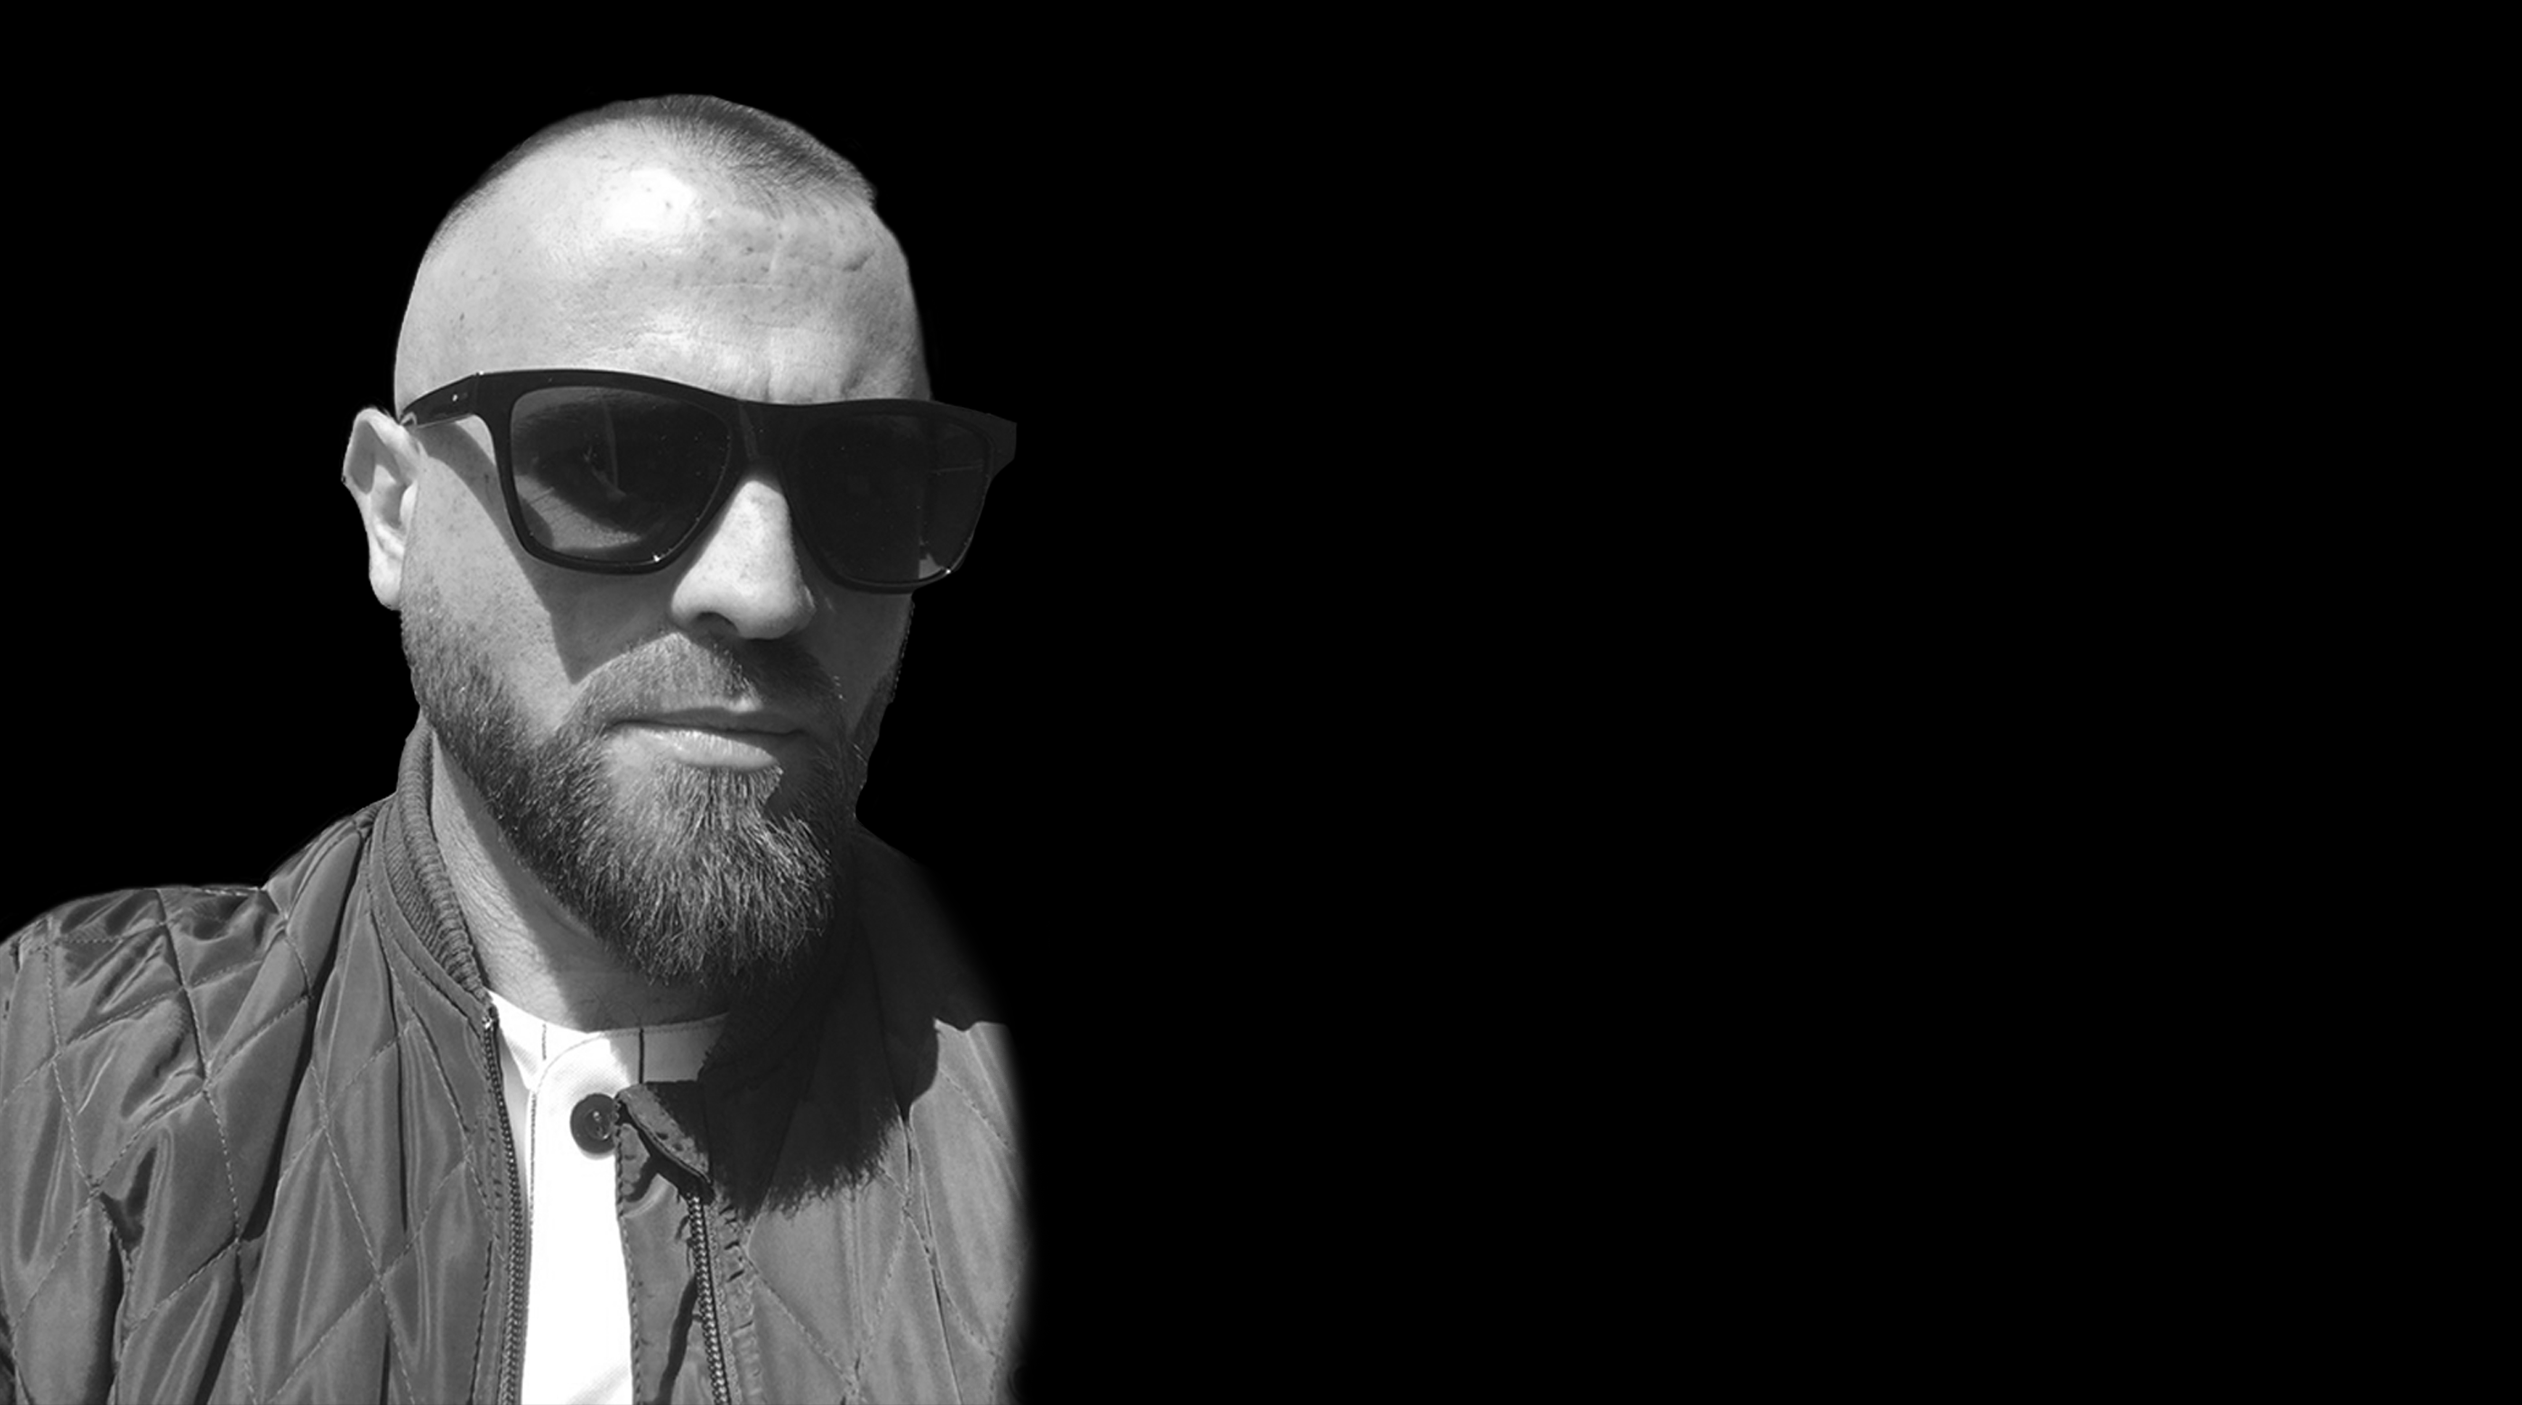
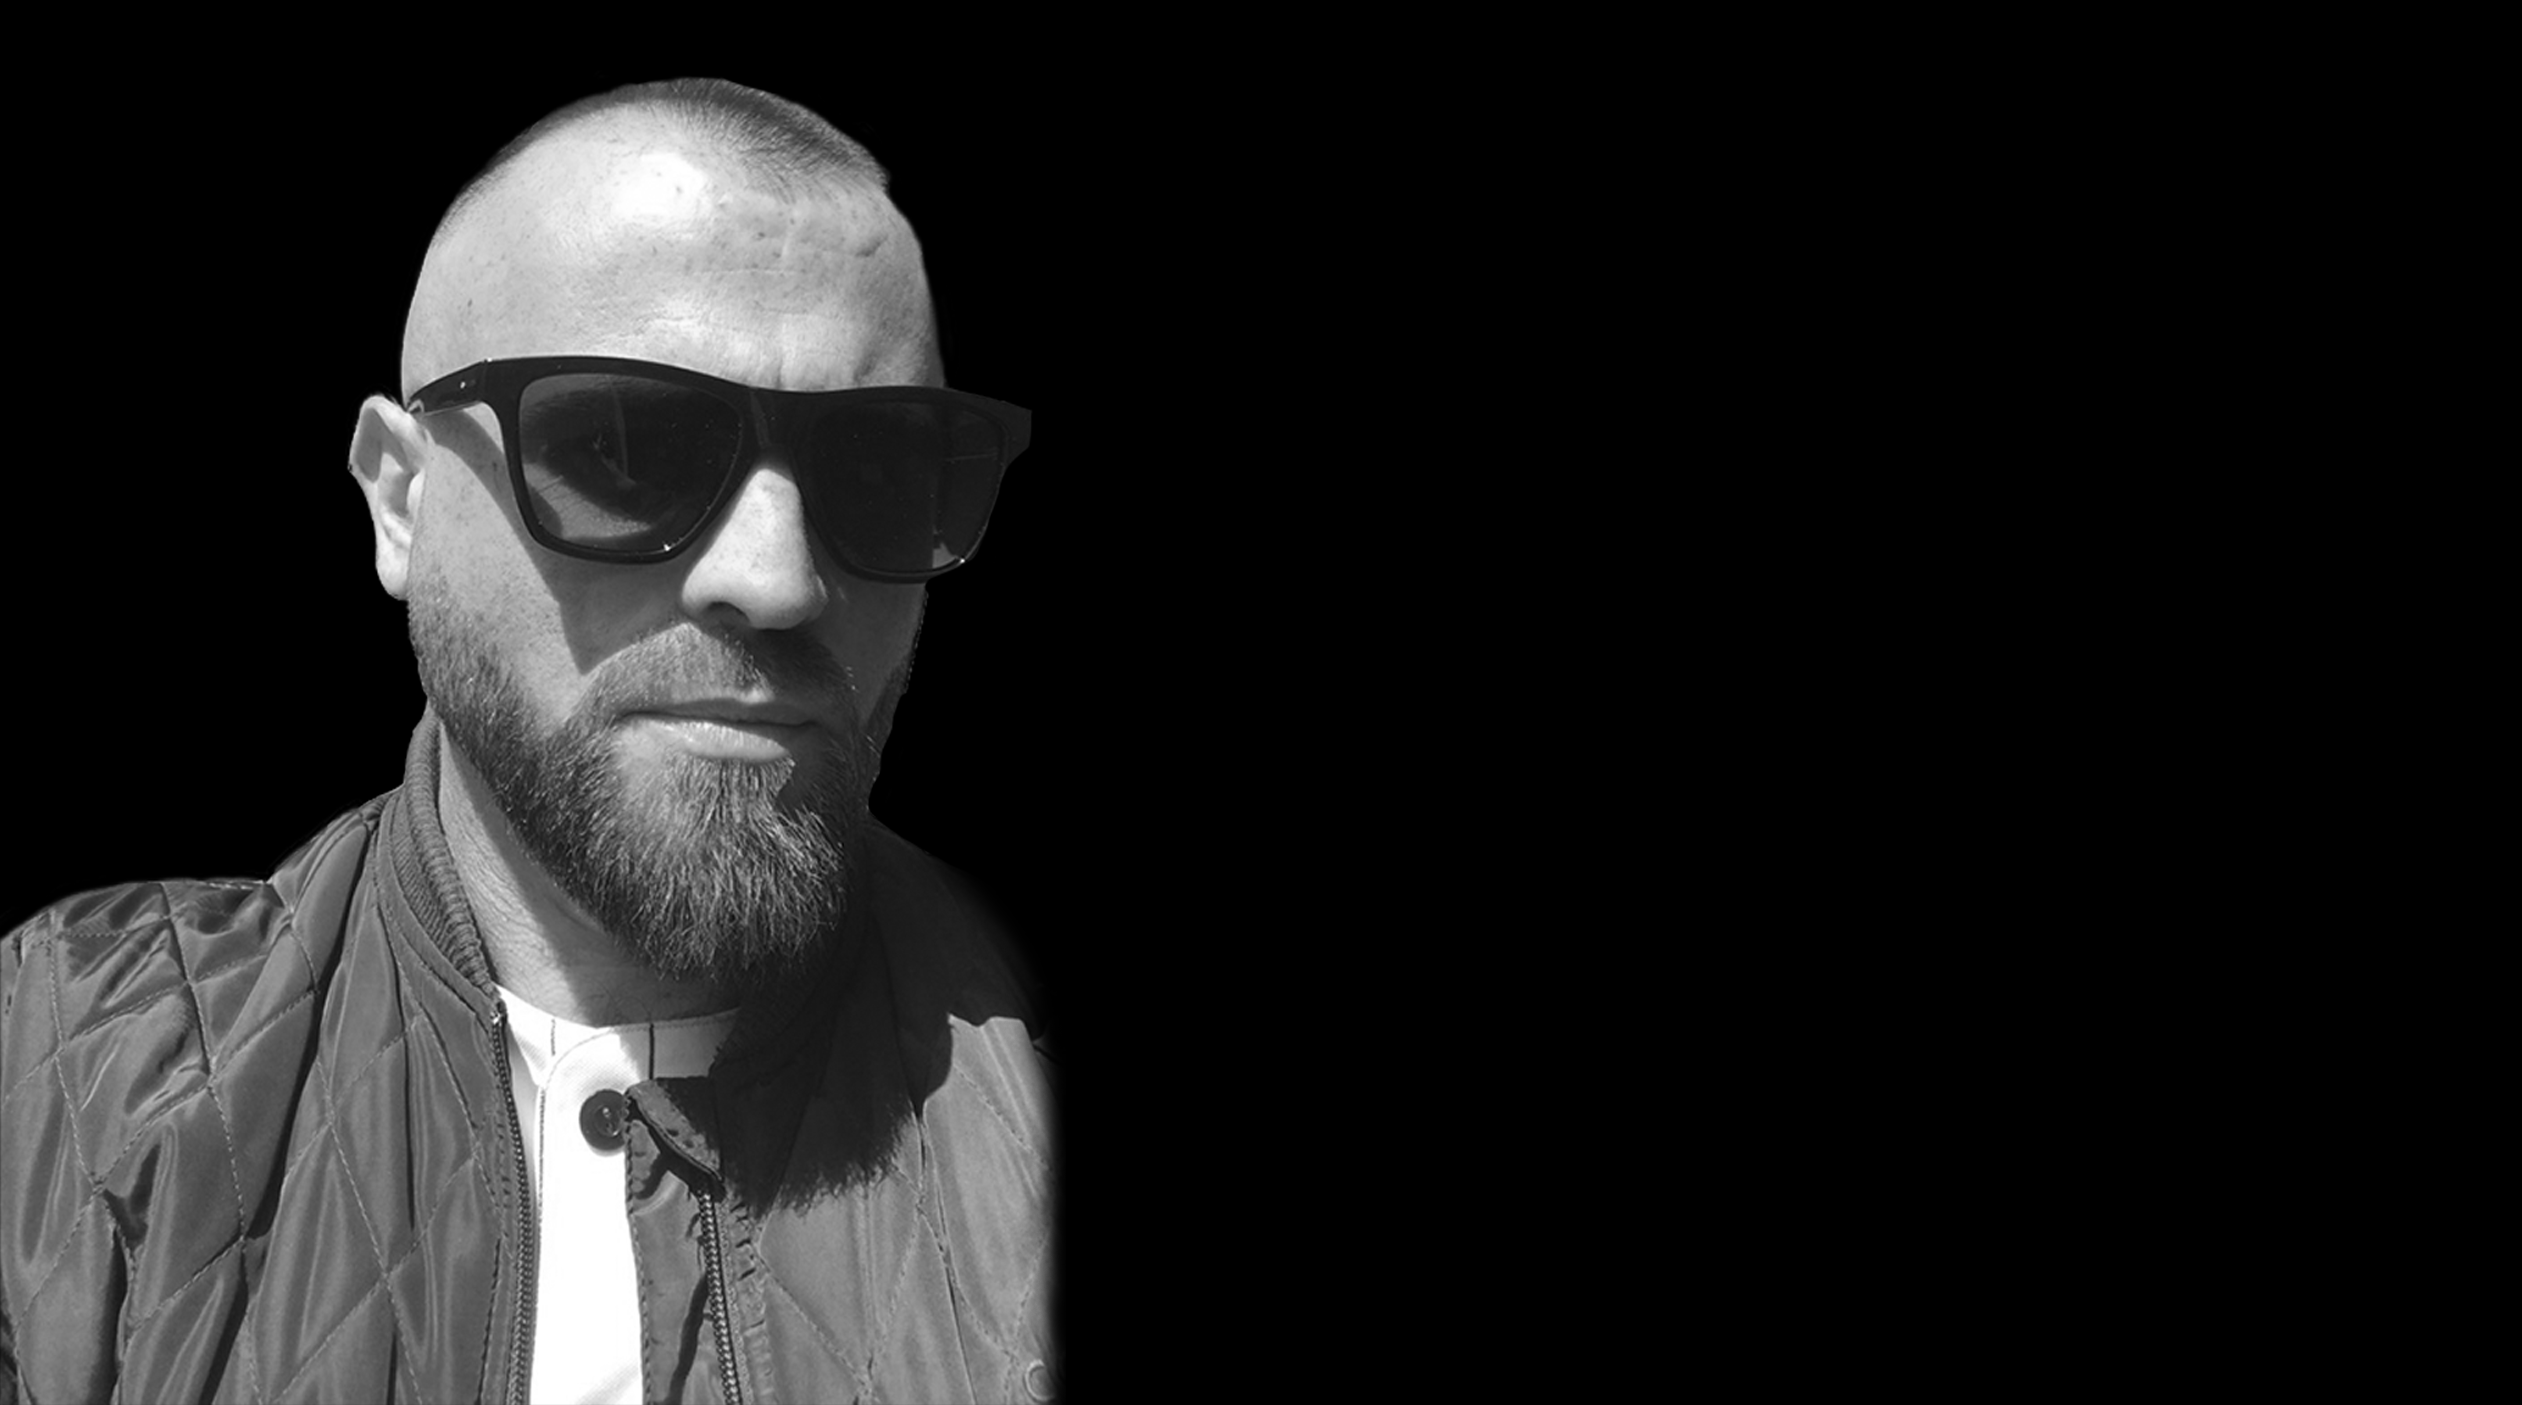
img hero history

Changed region(s): [[0.0, 0.0306, 0.433, 1.0], [0.3711, 0.3673, 0.4021, 0.3979]]

diff --git a/src/assets/config/vars/_gradients.scss b/src/assets/config/vars/_gradients.scss
@@ -62,26 +62,3 @@
     -ms-background-clip: text;
     -ms-text-fill-color: transparent;
 }
-
-// ***** Borders gradiente rainbow *****
-@mixin border-gradient-rainbow-vertical {
-    background: rgba(139,198,63,1);
-    background: -moz-linear-gradient(top, rgba(139,198,63,1) 0%, rgba(252,237,33,1) 10%, rgba(251,177,59,1) 20%, rgba(237,28,35,1) 30%, rgba(255,0,255,1) 40%, rgba(0,0,255,1) 50%, rgba(0,255,255,1) 60%, rgba(0,255,38,1) 70%, rgba(237,30,120,1) 80%, rgba(255,255,0,1) 90%, rgba(255,0,0,1) 100%);
-    background: -webkit-gradient(left top, left bottom, color-stop(0%, rgba(139,198,63,1)), color-stop(10%, rgba(252,237,33,1)), color-stop(20%, rgba(251,177,59,1)), color-stop(30%, rgba(237,28,35,1)), color-stop(40%, rgba(255,0,255,1)), color-stop(50%, rgba(0,0,255,1)), color-stop(60%, rgba(0,255,255,1)), color-stop(70%, rgba(0,255,38,1)), color-stop(80%, rgba(237,30,120,1)), color-stop(90%, rgba(255,255,0,1)), color-stop(100%, rgba(255,0,0,1)));
-    background: -webkit-linear-gradient(top, rgba(139,198,63,1) 0%, rgba(252,237,33,1) 10%, rgba(251,177,59,1) 20%, rgba(237,28,35,1) 30%, rgba(255,0,255,1) 40%, rgba(0,0,255,1) 50%, rgba(0,255,255,1) 60%, rgba(0,255,38,1) 70%, rgba(237,30,120,1) 80%, rgba(255,255,0,1) 90%, rgba(255,0,0,1) 100%);
-    background: -o-linear-gradient(top, rgba(139,198,63,1) 0%, rgba(252,237,33,1) 10%, rgba(251,177,59,1) 20%, rgba(237,28,35,1) 30%, rgba(255,0,255,1) 40%, rgba(0,0,255,1) 50%, rgba(0,255,255,1) 60%, rgba(0,255,38,1) 70%, rgba(237,30,120,1) 80%, rgba(255,255,0,1) 90%, rgba(255,0,0,1) 100%);
-    background: -ms-linear-gradient(top, rgba(139,198,63,1) 0%, rgba(252,237,33,1) 10%, rgba(251,177,59,1) 20%, rgba(237,28,35,1) 30%, rgba(255,0,255,1) 40%, rgba(0,0,255,1) 50%, rgba(0,255,255,1) 60%, rgba(0,255,38,1) 70%, rgba(237,30,120,1) 80%, rgba(255,255,0,1) 90%, rgba(255,0,0,1) 100%);
-    background: linear-gradient(to bottom, rgba(139,198,63,1) 0%, rgba(252,237,33,1) 10%, rgba(251,177,59,1) 20%, rgba(237,28,35,1) 30%, rgba(255,0,255,1) 40%, rgba(0,0,255,1) 50%, rgba(0,255,255,1) 60%, rgba(0,255,38,1) 70%, rgba(237,30,120,1) 80%, rgba(255,255,0,1) 90%, rgba(255,0,0,1) 100%);
-    filter: progid:DXImageTransform.Microsoft.gradient( startColorstr='#8bc63f', endColorstr='#ff0000', GradientType=0 );
-}
-
-@mixin border-gradient-raibow-horizontal {
-    background: rgba(139,198,63,1);
-    background: -moz-linear-gradient(left, rgba(139,198,63,1) 0%, rgba(252,237,33,1) 10%, rgba(251,177,59,1) 20%, rgba(237,28,35,1) 30%, rgba(255,0,255,1) 40%, rgba(0,0,255,1) 50%, rgba(0,255,255,1) 60%, rgba(0,255,38,1) 70%, rgba(237,30,120,1) 80%, rgba(255,255,0,1) 90%, rgba(255,0,0,1) 100%);
-    background: -webkit-gradient(left top, right top, color-stop(0%, rgba(139,198,63,1)), color-stop(10%, rgba(252,237,33,1)), color-stop(20%, rgba(251,177,59,1)), color-stop(30%, rgba(237,28,35,1)), color-stop(40%, rgba(255,0,255,1)), color-stop(50%, rgba(0,0,255,1)), color-stop(60%, rgba(0,255,255,1)), color-stop(70%, rgba(0,255,38,1)), color-stop(80%, rgba(237,30,120,1)), color-stop(90%, rgba(255,255,0,1)), color-stop(100%, rgba(255,0,0,1)));
-    background: -webkit-linear-gradient(left, rgba(139,198,63,1) 0%, rgba(252,237,33,1) 10%, rgba(251,177,59,1) 20%, rgba(237,28,35,1) 30%, rgba(255,0,255,1) 40%, rgba(0,0,255,1) 50%, rgba(0,255,255,1) 60%, rgba(0,255,38,1) 70%, rgba(237,30,120,1) 80%, rgba(255,255,0,1) 90%, rgba(255,0,0,1) 100%);
-    background: -o-linear-gradient(left, rgba(139,198,63,1) 0%, rgba(252,237,33,1) 10%, rgba(251,177,59,1) 20%, rgba(237,28,35,1) 30%, rgba(255,0,255,1) 40%, rgba(0,0,255,1) 50%, rgba(0,255,255,1) 60%, rgba(0,255,38,1) 70%, rgba(237,30,120,1) 80%, rgba(255,255,0,1) 90%, rgba(255,0,0,1) 100%);
-    background: -ms-linear-gradient(left, rgba(139,198,63,1) 0%, rgba(252,237,33,1) 10%, rgba(251,177,59,1) 20%, rgba(237,28,35,1) 30%, rgba(255,0,255,1) 40%, rgba(0,0,255,1) 50%, rgba(0,255,255,1) 60%, rgba(0,255,38,1) 70%, rgba(237,30,120,1) 80%, rgba(255,255,0,1) 90%, rgba(255,0,0,1) 100%);
-    background: linear-gradient(to right, rgba(139,198,63,1) 0%, rgba(252,237,33,1) 10%, rgba(251,177,59,1) 20%, rgba(237,28,35,1) 30%, rgba(255,0,255,1) 40%, rgba(0,0,255,1) 50%, rgba(0,255,255,1) 60%, rgba(0,255,38,1) 70%, rgba(237,30,120,1) 80%, rgba(255,255,0,1) 90%, rgba(255,0,0,1) 100%);
-    filter: progid:DXImageTransform.Microsoft.gradient( startColorstr='#8bc63f', endColorstr='#ff0000', GradientType=1 );
-}

diff --git a/src/app/components/history/history.component.scss b/src/app/components/history/history.component.scss
@@ -10,11 +10,13 @@
     // ***** tablet *****
     @media screen and (min-width: $md) {
         background: url('../../../assets/img/tablet/history/hero-history.png');
+        background-size: cover;
     }
 
     // ***** desktop *****
     @media screen and (min-width: $lg) {
         background: url('../../../assets/img/desktop/history/hero-history.png');
+        background-size: cover;
     }
     
     .wrap {
@@ -36,6 +38,7 @@
             // ***** desktop *****
             @media screen and (min-width: $lg) {
                 transform: rotate(0deg);
+                position: relative;
             }
         }
 

diff --git a/src/styles.scss b/src/styles.scss
@@ -25,4 +25,3 @@
 @import './assets/config/global/global.scss';
 @import './assets/config/global/animate.scss';
 html, body { height: 100%; }
-body { margin: 0; font-family: Roboto, "Helvetica Neue", sans-serif; }
